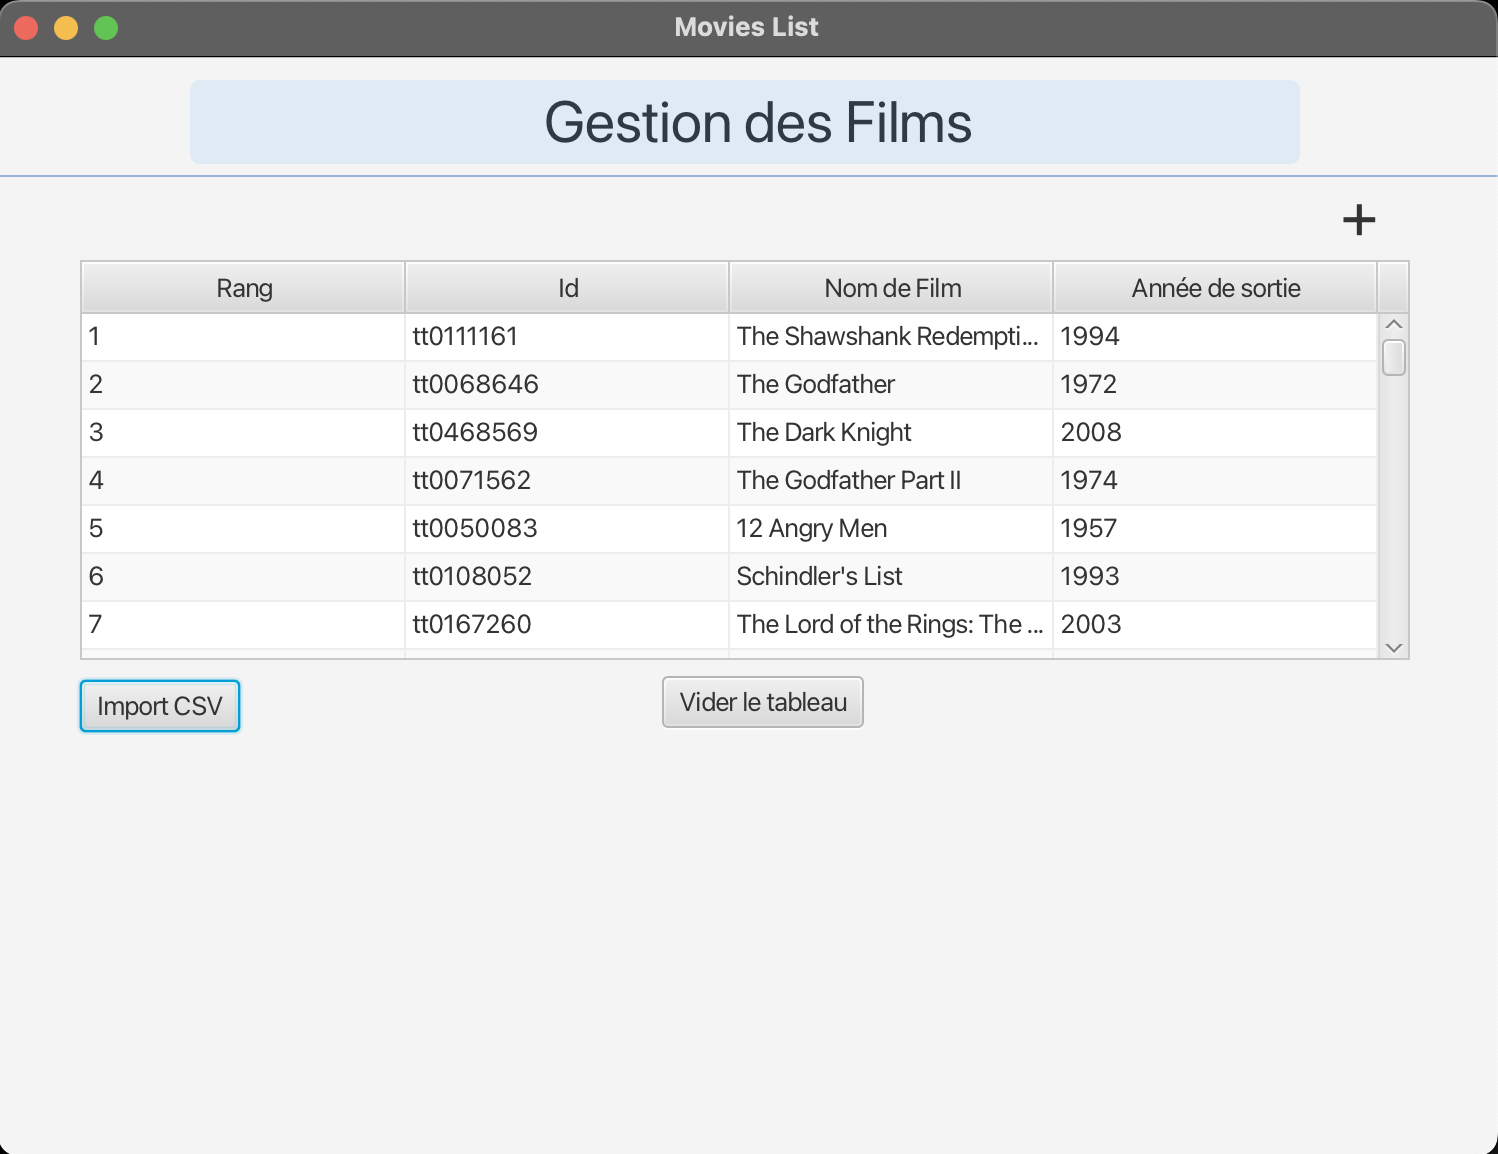
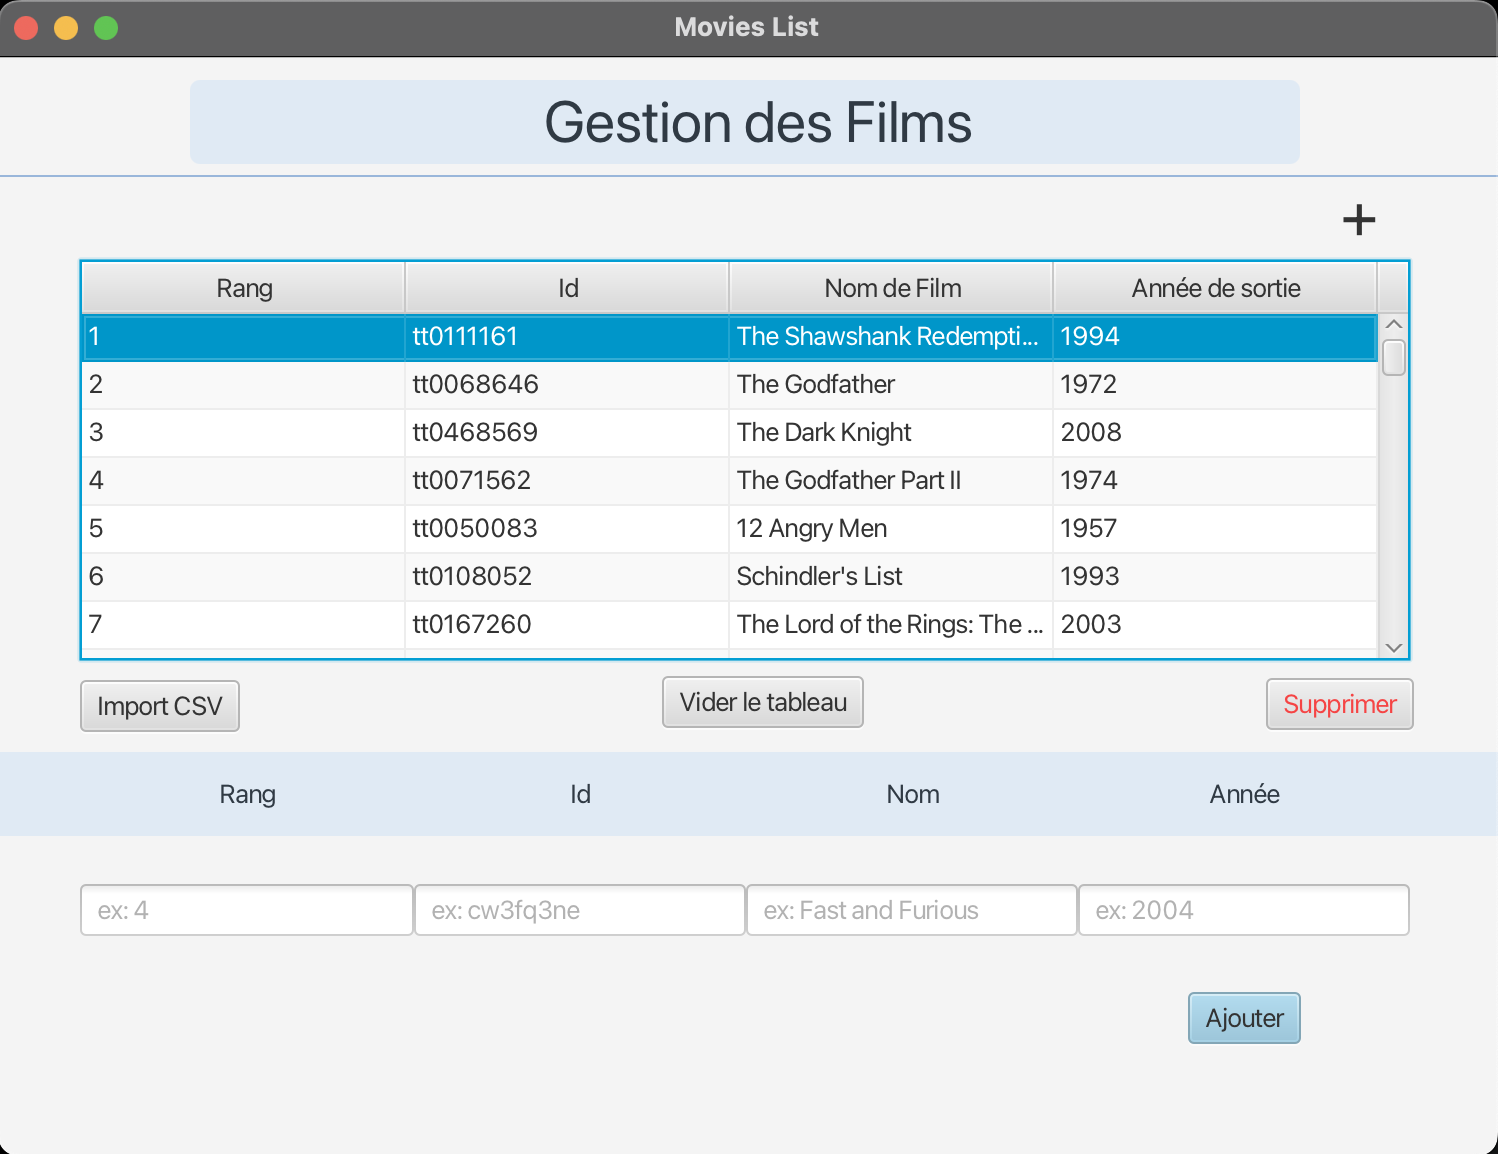
update README

diff --git a/README.md b/README.md
@@ -1,0 +1,12 @@
+
+<h1 align="center">List of movies</h1>
+<h4>Application created with JavaFx to show a list of movies by importing a CSV file from your local machine</h4>
+<hr
+<h3>Initial interface</h3>
+<img src="./src/main/resources/img/img1.png" />
+<hr>
+<h3>Interface after importing the CSV file</h3>
+<img src="src/main/resources/img/img2.png" />
+<hr>
+<h3>Adding new film</h3>
+<img src="src/main/resources/img/img3.png" />
